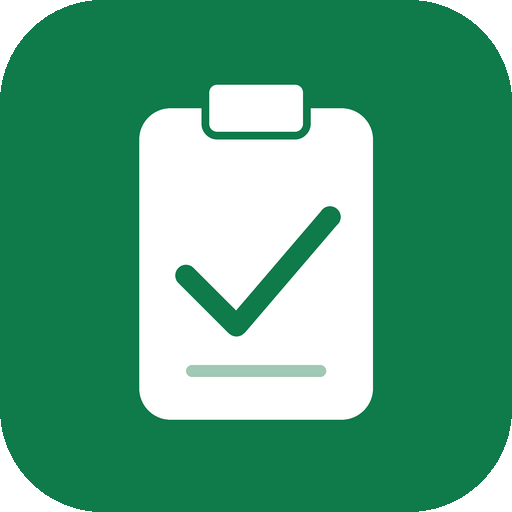
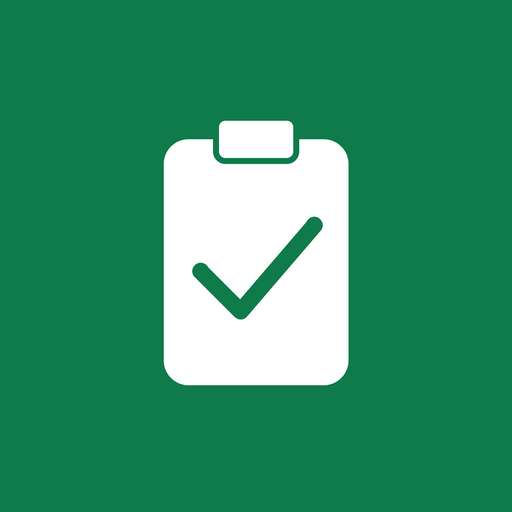
Add files via upload

diff --git a/index.html b/index.html
@@ -5,8 +5,8 @@
 <meta name="viewport" content="width=device-width, initial-scale=1, viewport-fit=cover">
 <meta name="theme-color" content="#0f7a4a">
 <link rel="manifest" href="manifest.json">
-<link rel="icon" href="icons/icon-192.png">
-<link rel="apple-touch-icon" href="icons/apple-touch-icon.png">
+<link rel="icon" href="icon-192.png">
+<link rel="apple-touch-icon" href="icon-192.png">
 <meta name="apple-mobile-web-app-capable" content="yes">
 <meta name="mobile-web-app-capable" content="yes">
 <meta name="apple-mobile-web-app-title" content="Attendance">
@@ -34,9 +34,29 @@ button.add{background:transparent;color:var(--acc);border:1px dashed var(--acc)}
 pre{white-space:pre-wrap;word-break:break-word;background:var(--bg);border:1px solid var(--line);border-radius:8px;padding:12px;font:14px/1.5 inherit;margin:0 0 10px}
 .wa{display:block;text-align:center;text-decoration:none;background:#25d366;color:#06301a;font-weight:700;border-radius:10px;padding:12px;margin-top:8px}
 .sum{color:var(--mut);font-size:14px;margin-top:8px}
+button{transition:transform .12s ease,opacity .12s ease}
+button:active,.wa:active{transform:scale(.97)}
+#splash{position:fixed;inset:0;z-index:100;background:var(--acc);color:var(--accink);display:flex;flex-direction:column;align-items:center;justify-content:center;gap:14px;animation:splashOut .55s ease 1.15s forwards}
+#splash svg{width:84px;height:84px;animation:logoIn .7s cubic-bezier(.2,1.3,.4,1) both}
+#splash .tt{font-size:20px;font-weight:700;letter-spacing:.3px;animation:rise .6s ease .35s both}
+#splash .st{font-size:13px;opacity:.85;animation:rise .6s ease .5s both}
+#splash .ck{stroke-dasharray:60;stroke-dashoffset:60;animation:draw .5s ease .6s forwards}
+main{animation:rise .6s ease 1.05s both}
+#list .card,#rlist .card{animation:pop .28s ease both}
+@keyframes splashOut{to{opacity:0;visibility:hidden}}
+@keyframes logoIn{from{opacity:0;transform:scale(.4) rotate(-12deg)}to{opacity:1;transform:none}}
+@keyframes rise{from{opacity:0;transform:translateY(14px)}to{opacity:1;transform:none}}
+@keyframes draw{to{stroke-dashoffset:0}}
+@keyframes pop{from{opacity:0;transform:scale(.96)}to{opacity:1;transform:none}}
+@media (prefers-reduced-motion:reduce){#splash{animation:splashOut .01s ease .3s forwards}#splash *,main,#list .card,#rlist .card{animation:none!important}#splash .ck{stroke-dashoffset:0}main{opacity:1}}
 </style>
 </head>
 <body>
+<div id="splash" aria-hidden="true">
+  <svg viewBox="0 0 96 96" fill="none"><rect x="20" y="14" width="56" height="74" rx="9" fill="currentColor"/><rect x="35" y="6" width="26" height="16" rx="5" fill="currentColor" stroke="var(--acc)" stroke-width="3"/><path class="ck" d="M33 54l11 11 20-24" stroke="var(--acc)" stroke-width="7" stroke-linecap="round" stroke-linejoin="round"/></svg>
+  <div class="tt">Staff Attendance</div>
+  <div class="st">Daily report ready in seconds</div>
+</div>
 <main>
 <h1>Daily Staff Attendance</h1>
 

diff --git a/sw.js b/sw.js
@@ -1,6 +1,6 @@
-var CACHE='attendance-v2';
-var FILES=['./','./index.html','./manifest.json','./icons/icon-192.png','./icons/icon-512.png','./icons/maskable-512.png','./icons/apple-touch-icon.png'];
-self.addEventListener('install',function(e){e.waitUntil(caches.open(CACHE).then(function(c){return c.addAll(FILES)}));self.skipWaiting()});
+var CACHE='attendance-v3';
+var FILES=['./','./index.html','./manifest.json','./icon-192.png','./icon-512.png'];
+self.addEventListener('install',function(e){e.waitUntil(caches.open(CACHE).then(function(c){return Promise.all(FILES.map(function(f){return c.add(f).catch(function(){})}))}));self.skipWaiting()});
 self.addEventListener('activate',function(e){e.waitUntil(caches.keys().then(function(k){return Promise.all(k.filter(function(x){return x!==CACHE}).map(function(x){return caches.delete(x)}))}));self.clients.claim()});
 self.addEventListener('fetch',function(e){
   if(e.request.method!=='GET')return;
